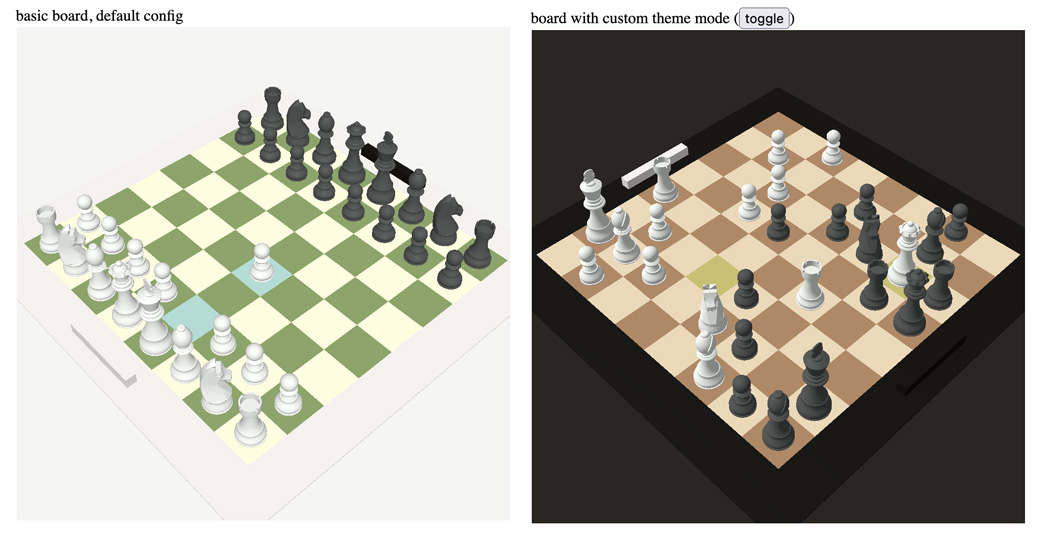
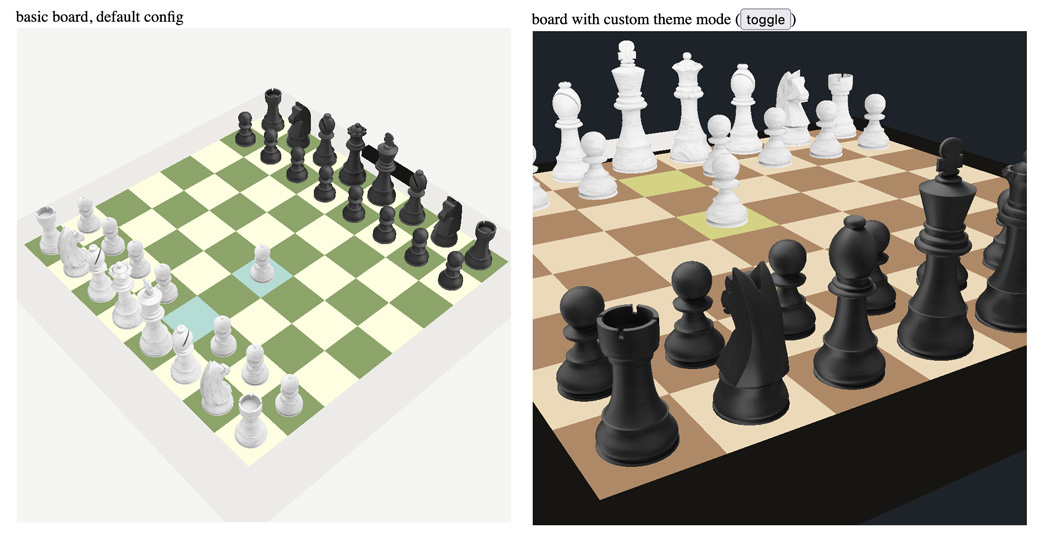
Update Chessfield API usage and improve documentation
Replaced "orientation" with "camera" and added "angle" in examples and implementation to align with the updated Chessfield API. Adjusted documentation and demo styles, added clearer descriptions, and updated links and version references for consistency.

diff --git a/index.html b/index.html
@@ -60,8 +60,8 @@
       }
 
       const board3 = new Chessfield(document.getElementById('board-3'), {
-        orientation: 'black',
-        camera: 'right',
+        angle: 'right',
+        camera: 'black',
         theme: 'green',
         mode: 'light',
       });

diff --git a/docs/index.md b/docs/index.md
@@ -13,8 +13,8 @@
     }
     .chessfield {
         width: 100%;
-        max-width: 500px; /* Constrain width for better display */
-        height: 333px;
+        max-width: 740px; /* Constrain width for better display */
+        height: 740px;
         margin: 0 auto;
         border: 1px solid #ddd; /* Optional: subtle border */
     }
@@ -24,7 +24,7 @@
 <p>Chessfield is a lightweight TypeScript library that lets you render interactive 3D chessboards in the browser. Built with <a href="https://threejs.org/" target="_blank">Three.js</a>, it’s easy to integrate into any web project, whether you’re using it via CDN, Node.js, or a framework like Angular.</p>
 
 <h2>Demo</h2>
-<p>Below is a live demo of Chessfield in action:</p>
+<p>Below is a live demo of Chessfield. Drag the camera around:</p>
 <div class="flex">
     <div class="chessfield" id="board1"></div>
 </div>
@@ -41,17 +41,17 @@
 <p>You can add Chessfield to your project in a few ways:</p>
 
 <h3>Via CDN</h3>
-<pre><code>&lt;link rel="stylesheet" href="https://cdn.jsdelivr.net/npm/chessfield/dist/chessfield.css"&gt;
-&lt;script src="https://cdn.jsdelivr.net/npm/chessfield/dist/chessfield.umd.js"&gt;&lt;/script&gt;
+<pre><code>&lt;link rel="stylesheet" href="https://cdn.jsdelivr.net/npm/chessfield@1.5.0/dist/chessfield.css"&gt;
+&lt;script src="https://cdn.jsdelivr.net/npm/chessfield@1.5.0/dist/chessfield.umd.js"&gt;&lt;/script&gt;
 &lt;script&gt;
     const container = document.getElementById('board');
-    const chessfield = new Chessfield(container, { orientation: 'white' });
+    const chessfield = new Chessfield(container, { camera: 'white', angle: 'right' });
 &lt;/script&gt;</code></pre>
 
 <h3>Via npm</h3>
 <pre><code>npm install chessfield</code></pre>
 <pre><code>import { Chessfield } from 'chessfield';
-const chessfield = new Chessfield(document.getElementById('board'), { orientation: 'white' });</code></pre>
+const chessfield = new Chessfield(document.getElementById('board'), { camera: 'white', angle: 'right' });</code></pre>
 
 <h2>Links</h2>
 <ul>
@@ -65,6 +65,7 @@ const chessfield = new Chessfield(document.getElementById('board'), { orientatio
     import { Chessfield } from 'https://cdn.jsdelivr.net/npm/chessfield/dist/chessfield.js';
     const boardContainer = document.getElementById('board1');
     var board1 = new Chessfield(boardContainer, {
-        orientation: 'white',
+        camera: 'white',
+        angle: 'right'
     });
 </script>

diff --git a/README.md b/README.md
@@ -22,7 +22,7 @@ Please read more about GPL for JavaScript on [greendrake.info](https://greendrak
 
 ## Demos
 
-- 🍿 [Chessfield.Live](https://github.com/unicolored/chessfield.live)
+- [Chessfield docs](https://unicolo.red/chessfield/)
 
 ## Features
 
